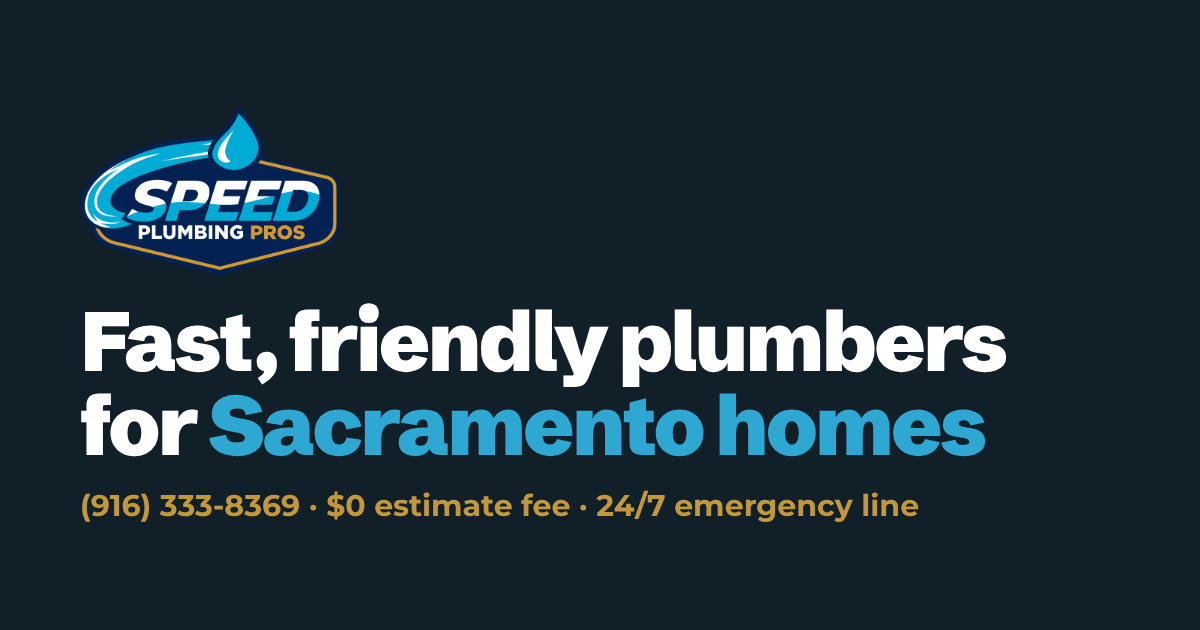
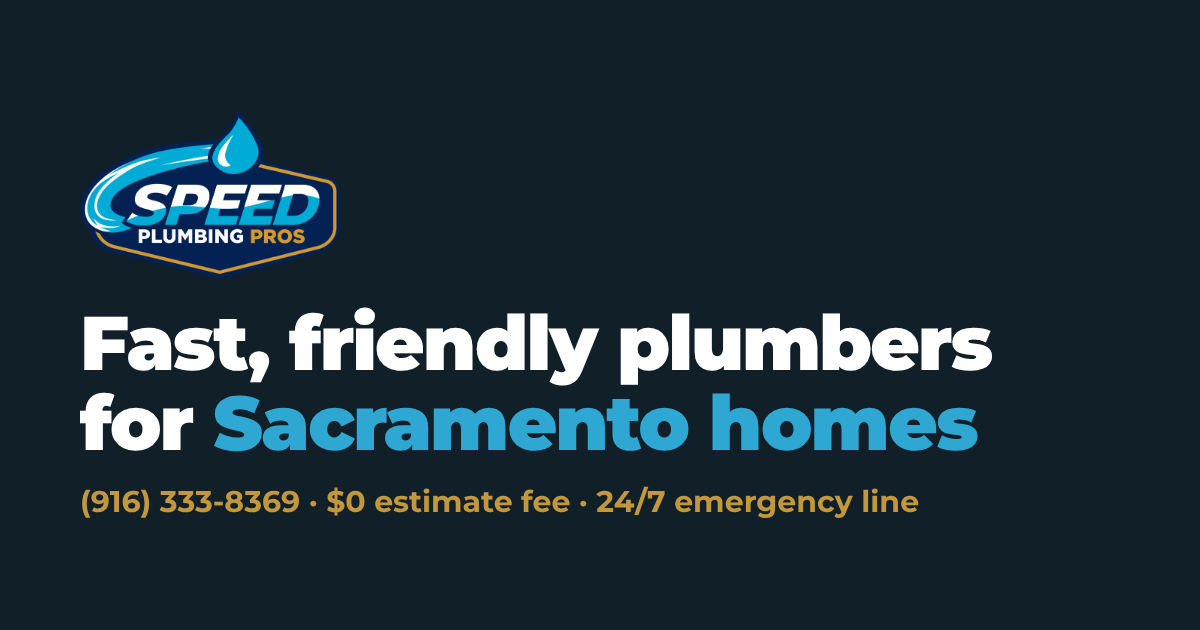
Use Montserrat Black for headings
Headings switch from Schibsted Grotesk to Montserrat Black (900), which
matches the lettering in the logo. The whole site now uses one font
family, so Google Fonts loads a single family with six weights instead
of two families. Open Graph image and README updated.

Claude-Session: https://claude.ai/code/session_015CPZ5GzBn7N5EPkWCkeVME

Changed region(s): [[0.0617, 0.4825, 0.8633, 0.7238], [0.0617, 0.181, 0.2775, 0.4524], [0.0617, 0.754, 0.7708, 0.8444]]

diff --git a/src/styles/global.css b/src/styles/global.css
@@ -13,7 +13,7 @@
   --ink:#111f28;
   --ink-soft:#4b5a62;
   --line:#e1e5ee;
-  --font-display:"Coolvetica","Schibsted Grotesk","Helvetica Neue",Arial,sans-serif;
+  --font-display:"Montserrat","Gotham","Helvetica Neue",Arial,sans-serif; /* Montserrat Black for headings: matches the logo lettering */
   --font-body:"Gotham","Montserrat","Helvetica Neue",Arial,sans-serif;
   --radius:10px;
   --gutter:max(16px, env(safe-area-inset-left, 0px));
@@ -35,8 +35,8 @@ body{background:var(--paper);color:var(--ink);font-family:var(--font-body);font-
 a{color:inherit}
 :focus-visible{outline:3px solid var(--gold);outline-offset:3px;border-radius:6px}
 .wrap{width:100%;max-width:1240px;margin-inline:auto;padding-left:var(--gutter);padding-right:var(--gutter-r)}
-h1,h2,h3{font-family:var(--font-display);line-height:1.05;letter-spacing:-.025em;margin:0;text-wrap:balance}
-h2{font-size:clamp(2rem,4.2vw,3.25rem);font-weight:800;color:var(--royal)}
+h1,h2,h3{font-family:var(--font-display);font-weight:900;line-height:1.08;letter-spacing:-.025em;margin:0;text-wrap:balance}
+h2{font-size:clamp(2rem,4.2vw,3.25rem);font-weight:900;color:var(--royal)}
 .reviews-band h2,.final h2,.footer .h4{color:var(--paper)}
 h3{font-size:1.3rem;font-weight:800;letter-spacing:-.015em}
 p{margin:0}

diff --git a/README.md b/README.md
@@ -40,7 +40,7 @@ docs/concept-homepage.html  The original single-file concept shown to the client
 From the client's brand manual (*Manual de identidad*, 2024):
 
 - Colors: navy `#19255a`, cyan `#2ea8d3`, gold `#c3983c`
-- Type: **Coolvetica** for headings, **Gotham** for body. Neither is a free web font, so the site currently uses Schibsted Grotesk and Montserrat from Google Fonts. To switch, buy web licenses, add the `.woff2` files with `@font-face`, and they'll take over automatically (they're first in the font stacks).
+- Type: the manual specifies **Coolvetica** (headings) and **Gotham** (body). Neither is licensed for web use for free, so the site uses **Montserrat** throughout: Black (900) for headings, which matches the logo lettering, and Regular–Bold for body text. Montserrat is the standard free alternative to Gotham.
 - Voice: friendly, dependable, energetic. The "trusted neighbor who knows plumbing."
 - Logo: `src/assets/logo.png` (official badge, transparent PNG), rendered by `components/Logo.astro` and optimized at build time. Favicons and app icons in `public/` are generated from it. An SVG version would be sharper; swap it in when available.
 
